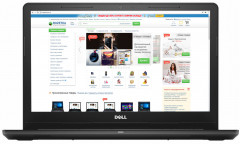
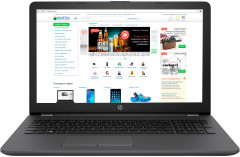
Removed redundant pictures. Added data for phones, TVs, eBooks, smart watches and game consoles

diff --git a/src/app/services/data-provider.service.ts b/src/app/services/data-provider.service.ts
@@ -8,12 +8,6 @@ export class DataProviderService {
 
   filters: any;
 
-  phones: ProductItem[];
-  tvs: ProductItem[];
-  eBooks: ProductItem[];
-  videoGameConsoles: ProductItem[];
-  smartWatches: ProductItem[];
-
   constructor() { }
 
   get categories(): String[] {
@@ -51,7 +45,7 @@ export class DataProviderService {
         manufacturer: "Apple"
       },
       {
-        image: "assets/images/products/laptops/laptop-3.jpg",
+        image: "assets/images/products/laptops/laptop-1.jpg",
         title: "ASUS VivoBook EA89S",
         price: "23 333",
         diagonal: "15''",
@@ -61,7 +55,7 @@ export class DataProviderService {
         manufacturer: "ASUS"
       },
       {
-        image: "assets/images/products/laptops/laptop-4.jpg",
+        image: "assets/images/products/laptops/laptop-1.jpg",
         title: "Acer Aspiron H6",
         price: "15 999",
         diagonal: "13''",
@@ -71,7 +65,7 @@ export class DataProviderService {
         manufacturer: "Acer"
       },
       {
-        image: "assets/images/products/laptops/laptop-5.jpg",
+        image: "assets/images/products/laptops/laptop-1.jpg",
         title: "HP Notebook 87",
         price: "34 799",
         diagonal: "15.6''",
@@ -81,7 +75,7 @@ export class DataProviderService {
         manufacturer: "HP"
       },
       {
-        image: "assets/images/products/laptops/laptop-6.jpg",
+        image: "assets/images/products/laptops/laptop-2.jpg",
         title: "MacBook Pro 13",
         price: "67 640",
         diagonal: "14''",
@@ -91,7 +85,7 @@ export class DataProviderService {
         manufacturer: "Apple"
       },
       {
-        image: "assets/images/products/laptops/laptop-7.jpg",
+        image: "assets/images/products/laptops/laptop-1.jpg",
         title: "Lenovo IdeaPad G789",
         price: "29 089",
         diagonal: "14''",
@@ -113,7 +107,7 @@ export class DataProviderService {
         os: "Android 6",
         screenSize: "1440x900",
         memoryCapacity: "512 GB",
-        manufacturer: "Lenovo"
+        manufacturer: "Yuntab"
       },
       {
         image: "assets/images/products/tablets/tablet-2.jpg",
@@ -123,7 +117,7 @@ export class DataProviderService {
         os: "Android 7",
         screenSize: "1440x900",
         memoryCapacity: "512 GB",
-        manufacturer: "Lenovo"
+        manufacturer: "Prestigio"
       },
       {
         image: "assets/images/products/tablets/tablet-1.jpg",
@@ -143,7 +137,272 @@ export class DataProviderService {
         os: "Android 5",
         screenSize: "1440x900",
         memoryCapacity: "512 GB",
-        manufacturer: "Lenovo"
+        manufacturer: "ASUS"
+      }
+    ];
+  }
+
+  get phones(): ProductItem[] {
+    return [
+      {
+        image: "assets/images/products/phones/phone-1.jpg",
+        title: "Samsung G10",
+        price: "10 799",
+        diagonal: "4''",
+        os: "Android 5",
+        screenSize: "1440x900",
+        memoryCapacity: "512 GB",
+        manufacturer: "Samsung"
+      },
+      {
+        image: "assets/images/products/phones/phone-2.jpg",
+        title: "ASUS YH33",
+        price: "5 555",
+        diagonal: "6''",
+        os: "Android 9",
+        screenSize: "1440x900",
+        memoryCapacity: "512 GB",
+        manufacturer: "ASUS"
+      },
+      {
+        image: "assets/images/products/phones/phone-1.jpg",
+        title: "Meizu E5",
+        price: "3 799",
+        diagonal: "6''",
+        os: "Android 9",
+        screenSize: "1440x900",
+        memoryCapacity: "512 GB",
+        manufacturer: "Meizu"
+      },
+      {
+        image: "assets/images/products/phones/phone-2.jpg",
+        title: "iPhone 7",
+        price: "11 599",
+        diagonal: "5''",
+        os: "iOS",
+        screenSize: "1440x900",
+        memoryCapacity: "512 GB",
+        manufacturer: "Apple"
+      },
+      {
+        image: "assets/images/products/phones/phone-1.jpg",
+        title: "Honor 5",
+        price: "3 799",
+        diagonal: "6''",
+        os: "Android 9",
+        screenSize: "1440x900",
+        memoryCapacity: "256 GB",
+        manufacturer: "Honor"
+      }
+    ];
+  }
+
+  get tvs(): ProductItem[] {
+    return [
+      {
+        image: "assets/images/products/tvs/tv-1.jpg",
+        title: "Samsung G599 Full HD",
+        price: "13 799",
+        diagonal: "64''",
+        os: "",
+        screenSize: "1440x900",
+        memoryCapacity: "",
+        manufacturer: "Samsung"
+      },
+      {
+        image: "assets/images/products/tvs/tv-2.jpg",
+        title: "LG 2555",
+        price: "16 799",
+        diagonal: "56''",
+        os: "",
+        screenSize: "1440x900",
+        memoryCapacity: "",
+        manufacturer: "LG"
+      },
+      {
+        image: "assets/images/products/tvs/tv-1.jpg",
+        title: "Phillips 202YJO",
+        price: "10 799",
+        diagonal: "22''",
+        os: "",
+        screenSize: "1440x900",
+        memoryCapacity: "",
+        manufacturer: "Phillips"
+      },
+      {
+        image: "assets/images/products/tvs/tv-2.jpg",
+        title: "Sony AA7",
+        price: "17 799",
+        diagonal: "36''",
+        os: "",
+        screenSize: "1440x900",
+        memoryCapacity: "",
+        manufacturer: "Sony"
+      },
+      {
+        image: "assets/images/products/tvs/tv-1.jpg",
+        title: "Panasonic P223",
+        price: "23 799",
+        diagonal: "26''",
+        os: "",
+        screenSize: "1440x900",
+        memoryCapacity: "",
+        manufacturer: "Panasonic"
+      }
+    ];
+  }
+
+  get eBooks(): ProductItem[] {
+    return [
+      {
+        image: "assets/images/products/ebooks/ebook-1.jpg",
+        title: "PocketBook Touch Lux",
+        price: "3 799",
+        diagonal: "5''",
+        os: "",
+        screenSize: "800x600",
+        memoryCapacity: "4 GB",
+        manufacturer: "PocketBook"
+      },
+      {
+        image: "assets/images/products/ebooks/ebook-2.jpg",
+        title: "AirBook Pro 8S",
+        price: "4 599",
+        diagonal: "5''",
+        os: "",
+        screenSize: "1024x600",
+        memoryCapacity: "6 GB",
+        manufacturer: "AirBook"
+      },
+      {
+        image: "assets/images/products/ebooks/ebook-1.jpg",
+        title: "Amazon Kindle Whitepaper",
+        price: "5 799",
+        diagonal: "5''",
+        os: "",
+        screenSize: "800x600",
+        memoryCapacity: "8 GB",
+        manufacturer: "Amazon"
+      }
+    ];
+  }
+
+  get videoGameConsoles(): ProductItem[] {
+    return [
+      {
+        image: "assets/images/products/videoGameConsoles/console-1.jpg",
+        title: "PlayStation 4 Pro",
+        price: "10 799",
+        diagonal: "",
+        os: "",
+        screenSize: "",
+        memoryCapacity: "1 TB",
+        manufacturer: "Sony"
+      },
+      {
+        image: "assets/images/products/videoGameConsoles/console-2.jpg",
+        title: "Microsoft XBOX One",
+        price: "8 799",
+        diagonal: "",
+        os: "",
+        screenSize: "",
+        memoryCapacity: "1 TB",
+        manufacturer: "Microsoft"
+      },
+      {
+        image: "assets/images/products/videoGameConsoles/console-1.jpg",
+        title: "PlayStation 4",
+        price: "9 999",
+        diagonal: "",
+        os: "",
+        screenSize: "",
+        memoryCapacity: "512 GB",
+        manufacturer: "Sony"
+      },
+      {
+        image: "assets/images/products/videoGameConsoles/console-1.jpg",
+        title: "PlayStation 3",
+        price: "6 599",
+        diagonal: "",
+        os: "",
+        screenSize: "",
+        memoryCapacity: "512 GB",
+        manufacturer: "Sony"
+      },
+      {
+        image: "assets/images/products/videoGameConsoles/console-2.jpg",
+        title: "Microsoft XBOX 360",
+        price: "5 799",
+        diagonal: "",
+        os: "",
+        screenSize: "",
+        memoryCapacity: "256 GB",
+        manufacturer: "Microsoft"
+      },
+      {
+        image: "assets/images/products/videoGameConsoles/console-1.jpg",
+        title: "PlayStation 2",
+        price: "2 199",
+        diagonal: "",
+        os: "",
+        screenSize: "",
+        memoryCapacity: "128 GB",
+        manufacturer: "Sony"
+      }
+    ];
+  }
+
+  get smartWatches(): ProductItem[] {
+    return [
+      {
+        image: "assets/images/products/smartWatches/watch-1.jpg",
+        title: "Amazfit Verge Gray",
+        price: "2 199",
+        diagonal: "1.6''",
+        os: "Android",
+        screenSize: "",
+        memoryCapacity: "",
+        manufacturer: "Amazfit"
+      },
+      {
+        image: "assets/images/products/smartWatches/watch-2.jpg",
+        title: "Huawei Watch GT",
+        price: "4 199",
+        diagonal: "1.5''",
+        os: "Android",
+        screenSize: "",
+        memoryCapacity: "",
+        manufacturer: "Huawei"
+      },
+      {
+        image: "assets/images/products/smartWatches/watch-1.jpg",
+        title: "Samsung Galaxy Watch",
+        price: "3 899",
+        diagonal: "1.5''",
+        os: "Android",
+        screenSize: "",
+        memoryCapacity: "",
+        manufacturer: "Samsung"
+      },
+      {
+        image: "assets/images/products/smartWatches/watch-2.jpg",
+        title: "KMITX T11",
+        price: "7 999",
+        diagonal: "1.6''",
+        os: "Android",
+        screenSize: "",
+        memoryCapacity: "",
+        manufacturer: "KMITX"
+      },
+      {
+        image: "assets/images/products/smartWatches/watch-2.jpg",
+        title: "IWO 11",
+        price: "2 999",
+        diagonal: "1.6''",
+        os: "Android",
+        screenSize: "",
+        memoryCapacity: "",
+        manufacturer: "IWO"
       }
     ];
   }

diff --git a/src/app/components/content/product-item/product-item.component.scss b/src/app/components/content/product-item/product-item.component.scss
@@ -17,16 +17,18 @@
     background-color: rgb(255, 255, 255);
     border-top-right-radius: 15px;
     border-top-left-radius: 15px;
+    overflow: hidden;
 }
 
 .product-item__img {
     position: absolute;
     top: 0;
     bottom: 0;
+    right: 0;
+    left: 0;
     margin: auto;
-    width: 100%;
-    border-top-right-radius: 15px;
-    border-top-left-radius: 15px;
+    max-width: 100%;
+    max-height: 100%;
 }
 
 .product-item__info {

diff --git a/src/app/components/content/products-grid/products-grid.component.html b/src/app/components/content/products-grid/products-grid.component.html
@@ -1,6 +1,6 @@
 <div class="products-grid">
   <app-product-item 
-    *ngFor="let productItem of dataProvider.tablets;"
+    *ngFor="let productItem of dataProvider.laptops;"
     [productItem]="productItem">
   </app-product-item>
 </div>
